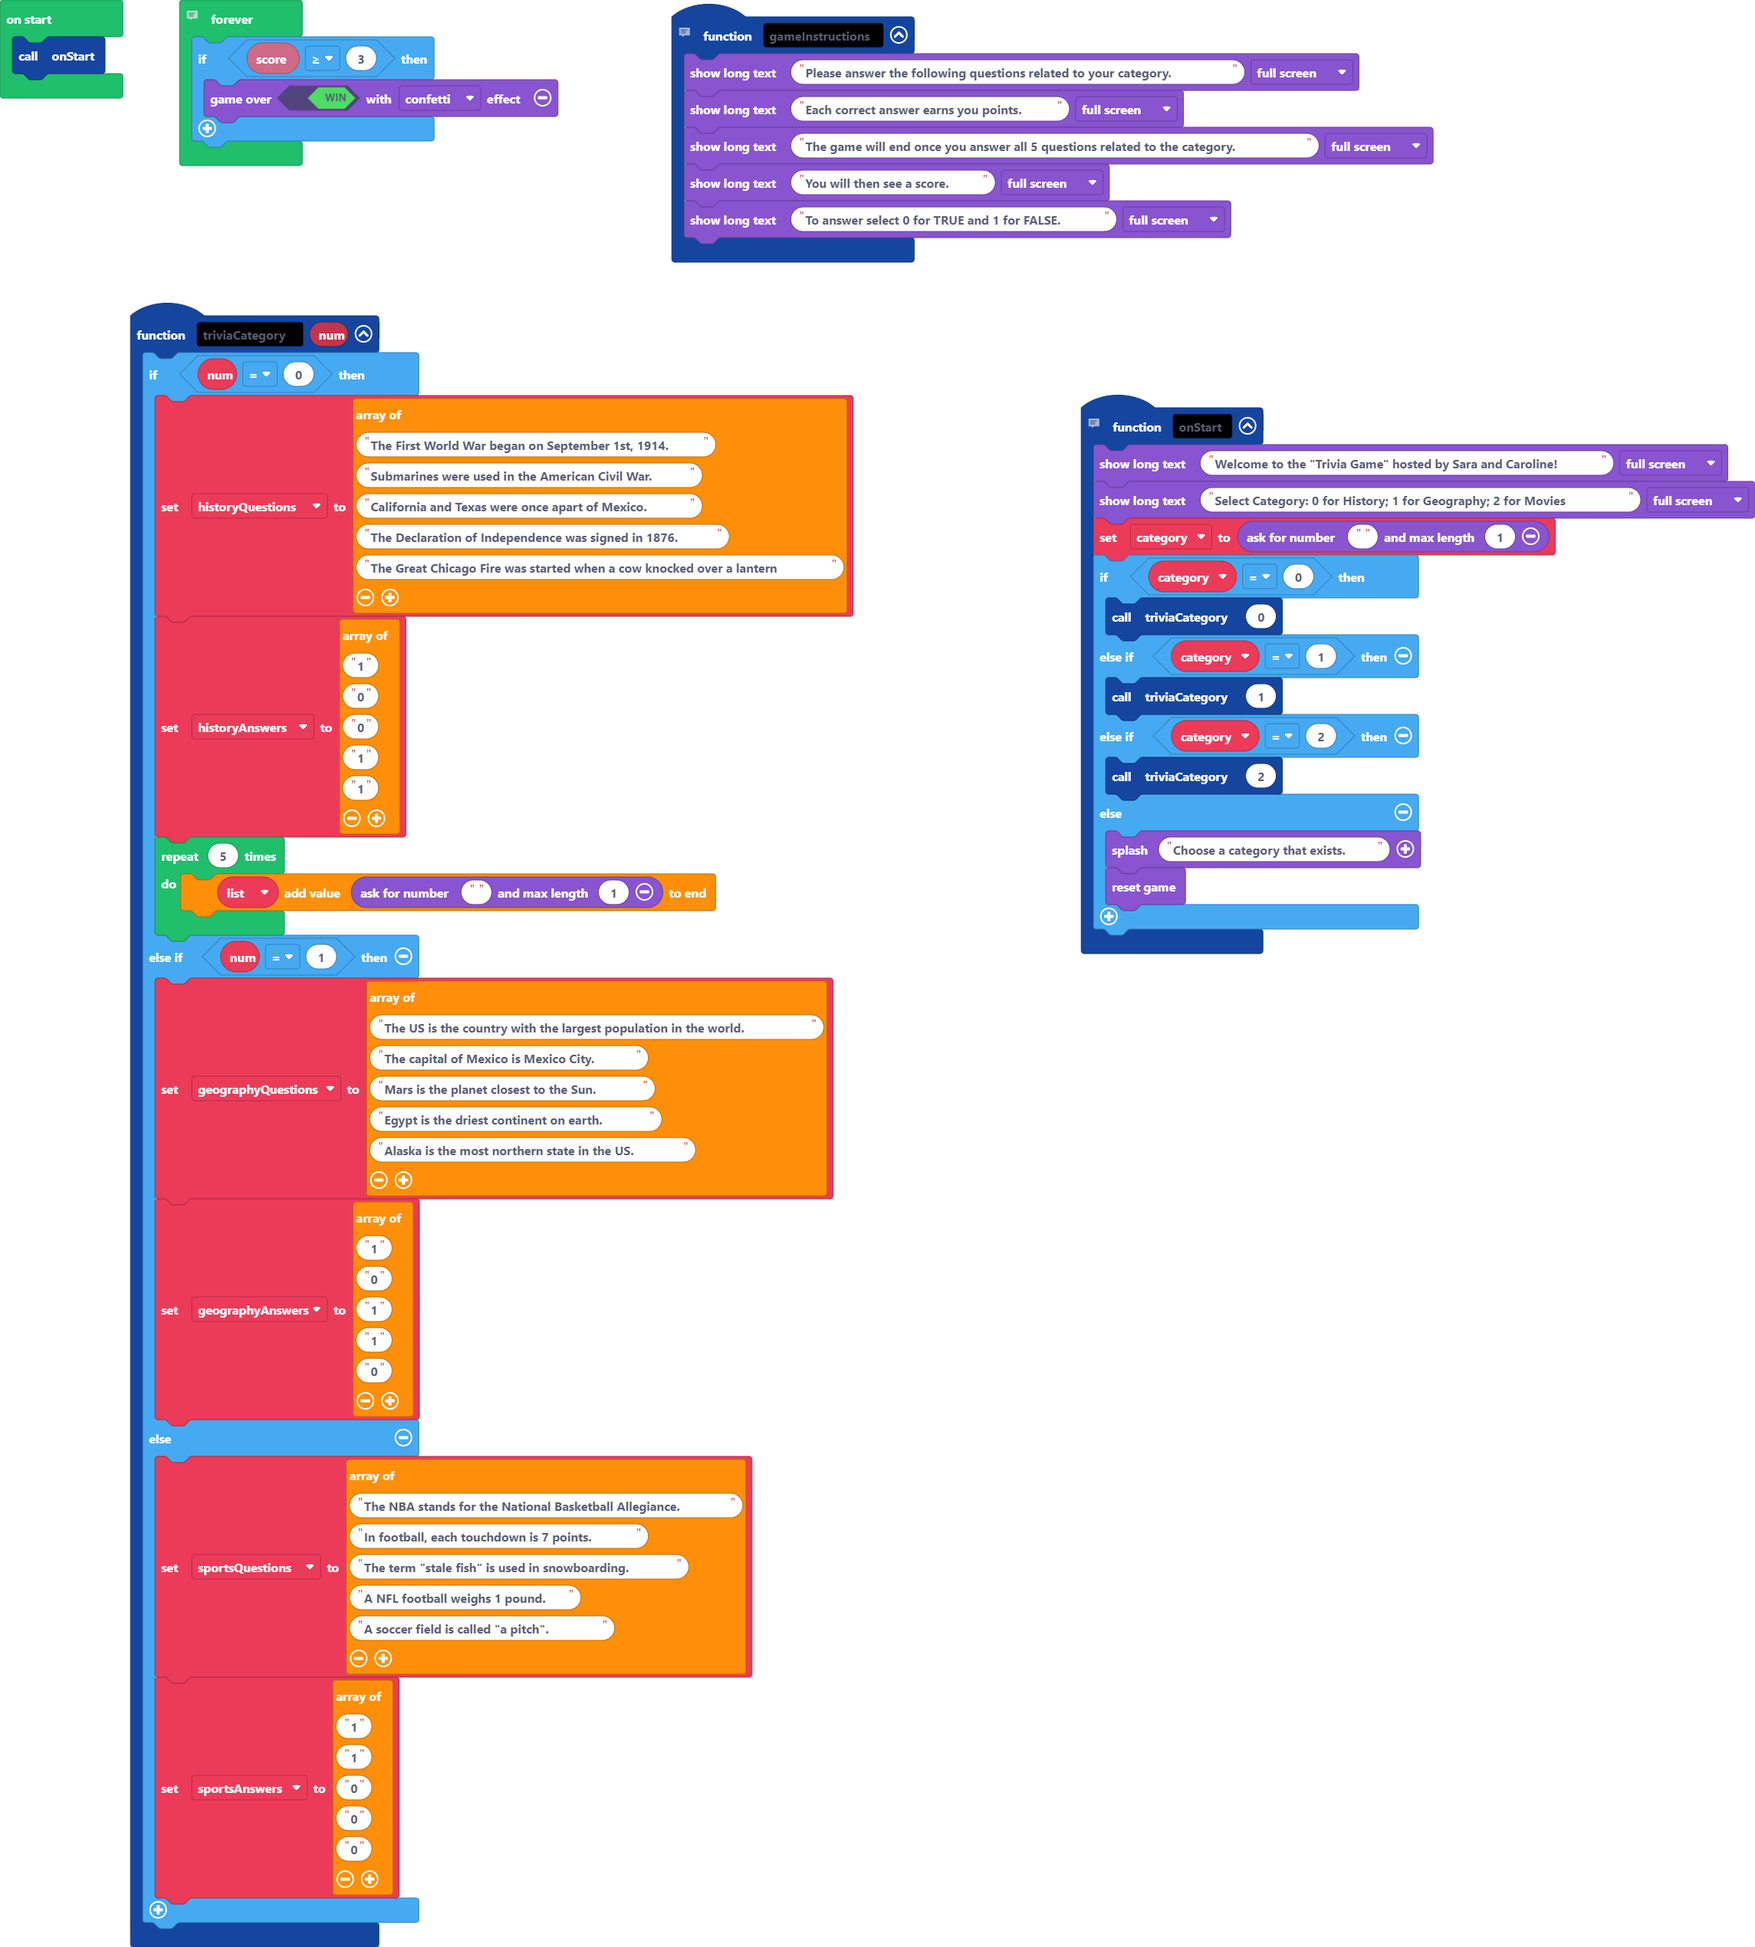
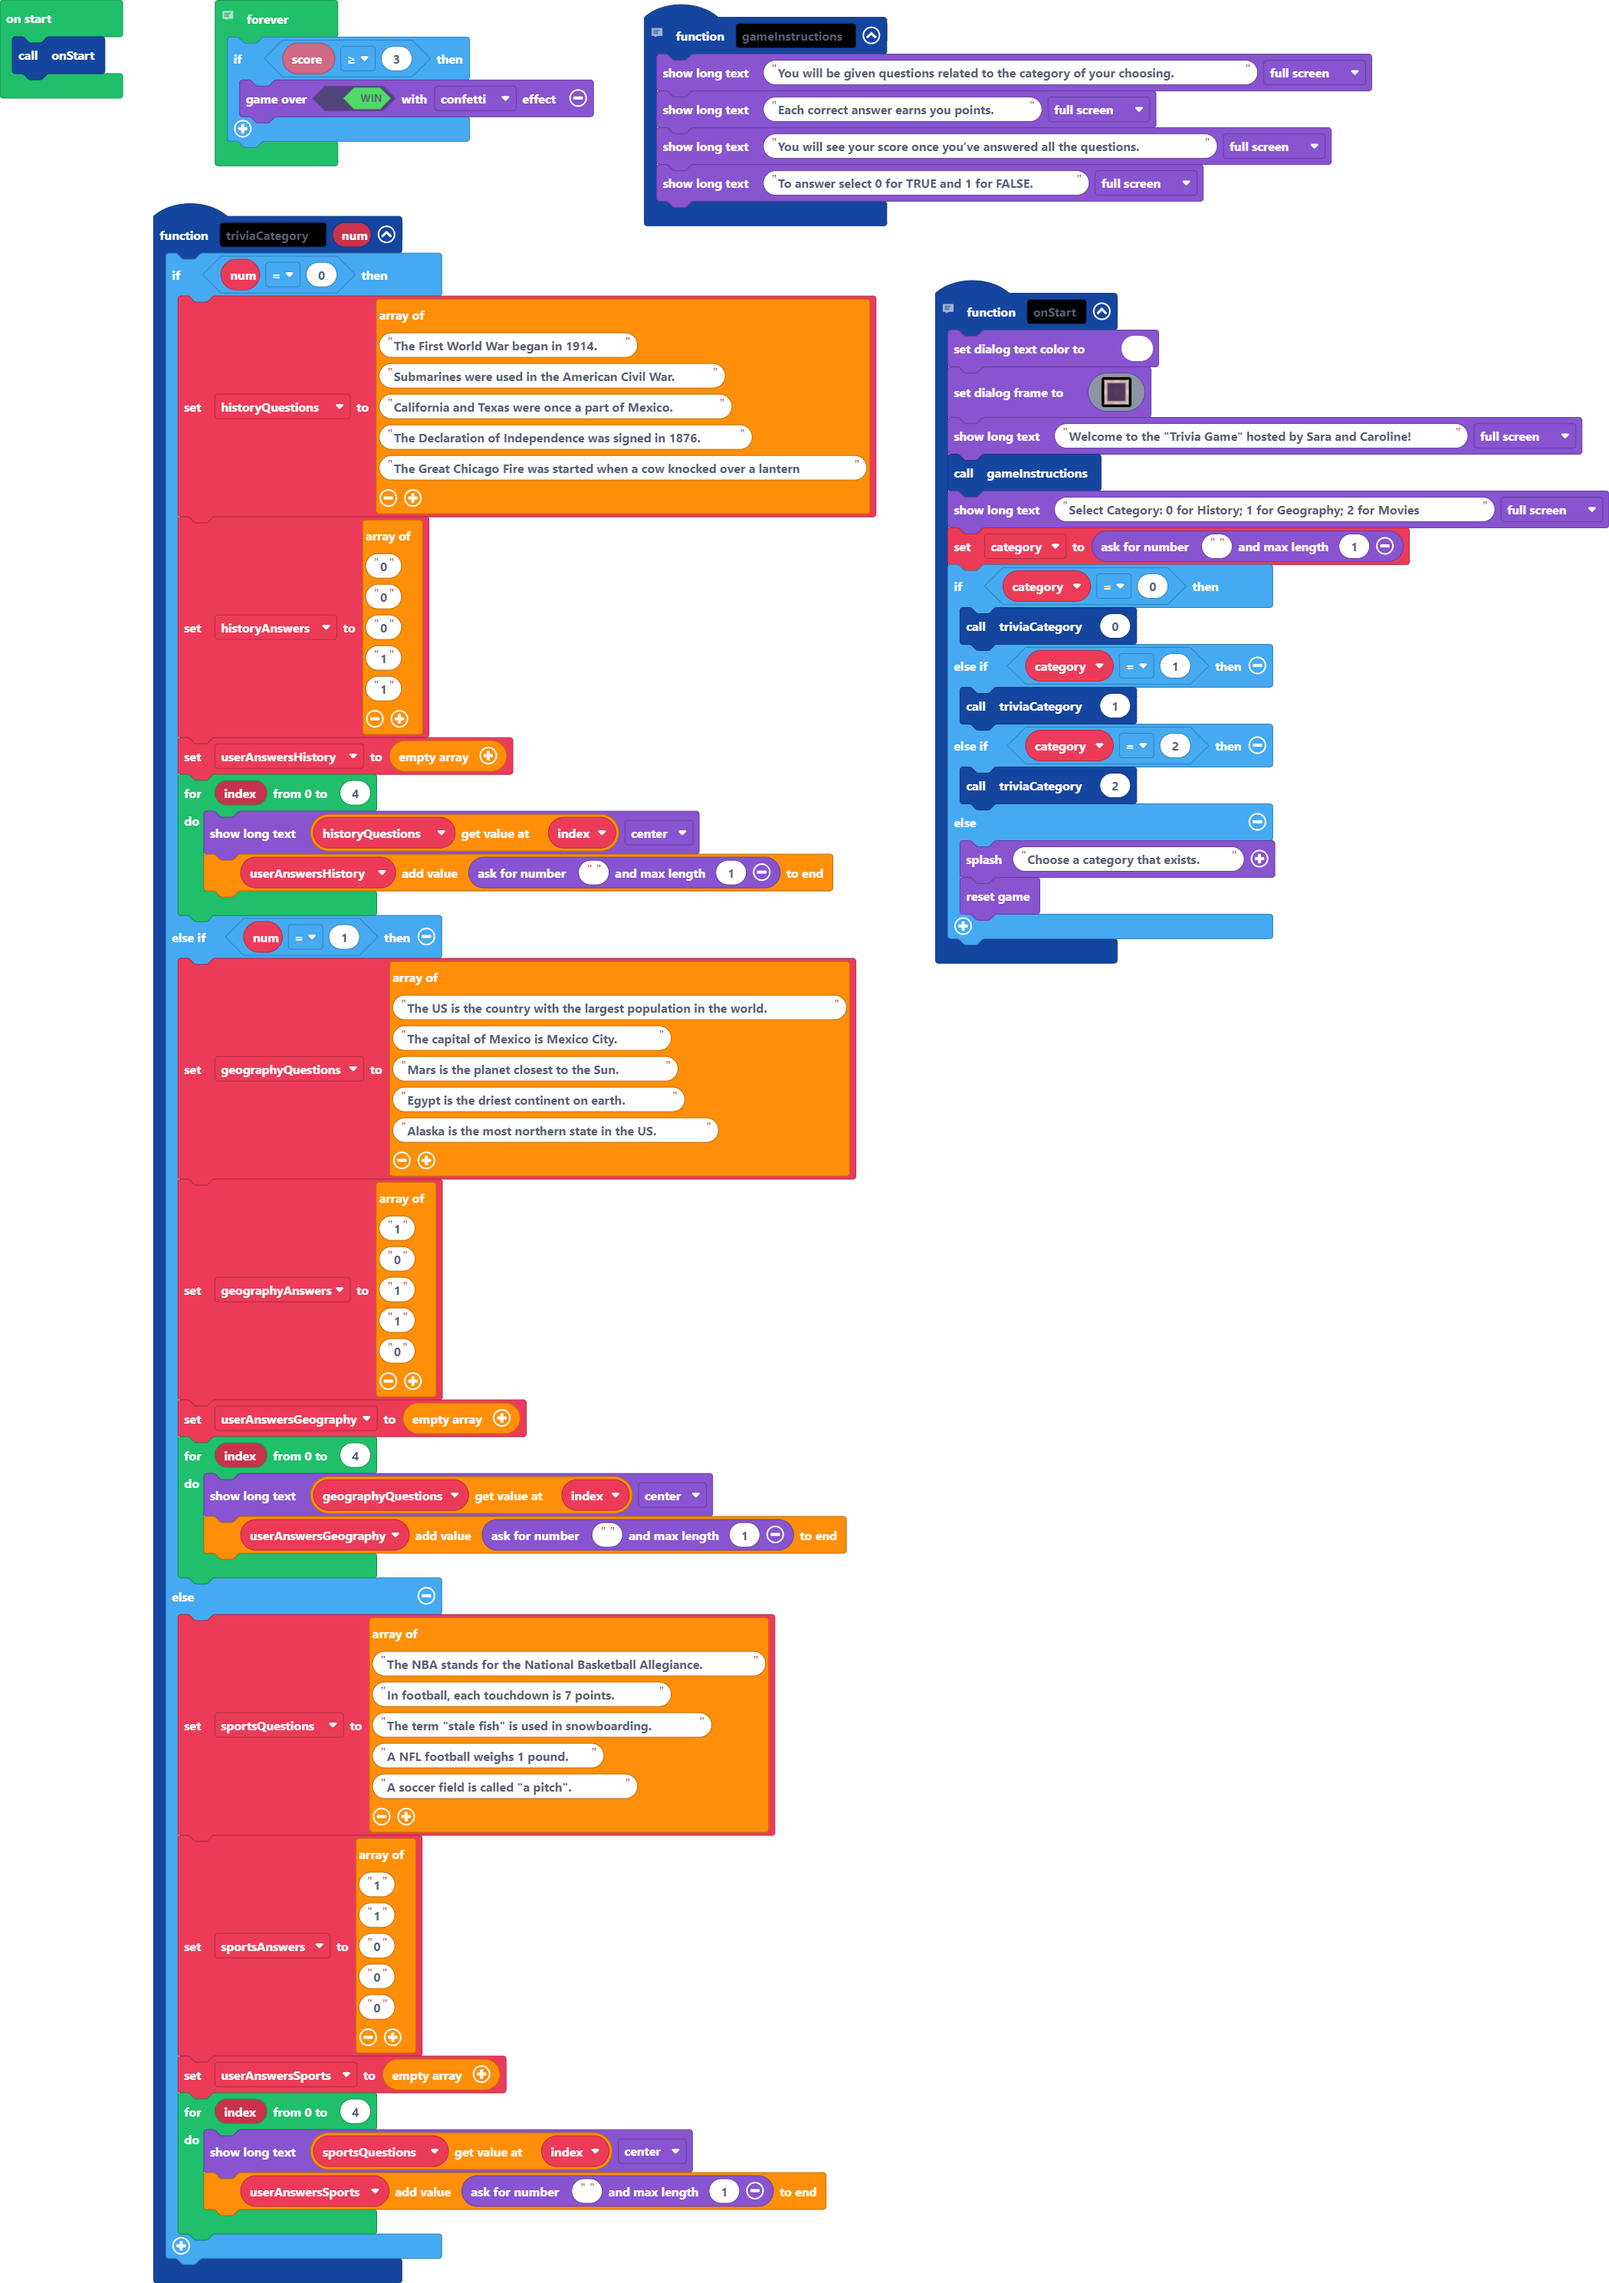
Update main.blocks, main.ts

diff --git a/main.ts b/main.ts
@@ -2,10 +2,9 @@
 // - Since each category will require the same instructions, rewriting the code each time would increase the lines of code.
 // - This function also makes it simpler to alter the code if there are changes that need to made or if there is a bug.
 function gameInstructions () {
-    game.showLongText("Please answer the following questions related to your category.", DialogLayout.Full)
+    game.showLongText("You will be given questions related to the category of your choosing.", DialogLayout.Full)
     game.showLongText("Each correct answer earns you points.", DialogLayout.Full)
-    game.showLongText("The game will end once you answer all 5 questions related to the category.", DialogLayout.Full)
-    game.showLongText("You will then see a score.", DialogLayout.Full)
+    game.showLongText("You will see your score once you've answered all the questions.", DialogLayout.Full)
     game.showLongText("To answer select 0 for TRUE and 1 for FALSE.", DialogLayout.Full)
 }
 // - this function contains all the lines of code needed to initiate the game
@@ -16,7 +15,26 @@ function gameInstructions () {
 // - the functions within the selection initiates the game the user desired
 // - this function uses the programming construct: sequence to ensure that the code is executed in order
 function onStart () {
+    game.setDialogTextColor(1)
+    game.setDialogFrame(img`
+        d d d d d d d d d d d d d d d 
+        d d d d d d d d d d d d d d d 
+        d d c c c c c c c c c c c d d 
+        d d c c c c c c c c c c c d d 
+        d d c c c c c c c c c c c d d 
+        d d c c c c c c c c c c c d d 
+        d d c c c c c c c c c c c d d 
+        d d c c c c c c c c c c c d d 
+        d d c c c c c c c c c c c d d 
+        d d c c c c c c c c c c c d d 
+        d d c c c c c c c c c c c d d 
+        d d c c c c c c c c c c c d d 
+        d d c c c c c c c c c c c d d 
+        d d d d d d d d d d d d d d d 
+        d d d d d d d d d d d d d d d 
+        `)
     game.showLongText("Welcome to the \"Trivia Game\" hosted by Sara and Caroline!", DialogLayout.Full)
+    gameInstructions()
     game.showLongText("Select Category: 0 for History; 1 for Geography; 2 for Movies", DialogLayout.Full)
     category = game.askForNumber("", 1)
     if (category == 0) {
@@ -33,22 +51,23 @@ function onStart () {
 function triviaCategory (num: number) {
     if (num == 0) {
         historyQuestions = [
-        "The First World War began on September 1st, 1914.",
+        "The First World War began in 1914.",
         "Submarines were used in the American Civil War.",
-        "California and Texas were once apart of Mexico.",
+        "California and Texas were once a part of Mexico.",
         "The Declaration of Independence was signed in 1876.",
         "The Great Chicago Fire was started when a cow knocked over a lantern"
         ]
         historyAnswers = [
-        "1",
+        "0",
         "0",
         "0",
         "1",
         "1"
         ]
-        for (let index = 0; index < 5; index++) {
-            let list: number[] = []
-            list.push(game.askForNumber("", 1))
+        userAnswersHistory = []
+        for (let index = 0; index <= 4; index++) {
+            game.showLongText(historyQuestions[index], DialogLayout.Center)
+            userAnswersHistory.push(game.askForNumber("", 1))
         }
     } else if (num == 1) {
         geographyQuestions = [
@@ -65,6 +84,11 @@ function triviaCategory (num: number) {
         "1",
         "0"
         ]
+        userAnswersGeography = []
+        for (let index = 0; index <= 4; index++) {
+            game.showLongText(geographyQuestions[index], DialogLayout.Center)
+            userAnswersGeography.push(game.askForNumber("", 1))
+        }
     } else {
         sportsQuestions = [
         "The NBA stands for the National Basketball Allegiance.",
@@ -80,12 +104,20 @@ function triviaCategory (num: number) {
         "0",
         "0"
         ]
+        userAnswersSports = []
+        for (let index = 0; index <= 4; index++) {
+            game.showLongText(sportsQuestions[index], DialogLayout.Center)
+            userAnswersSports.push(game.askForNumber("", 1))
+        }
     }
 }
+let userAnswersSports: number[] = []
 let sportsAnswers: string[] = []
 let sportsQuestions: string[] = []
+let userAnswersGeography: number[] = []
 let geographyAnswers: string[] = []
 let geographyQuestions: string[] = []
+let userAnswersHistory: number[] = []
 let historyAnswers: string[] = []
 let historyQuestions: string[] = []
 let category = 0
